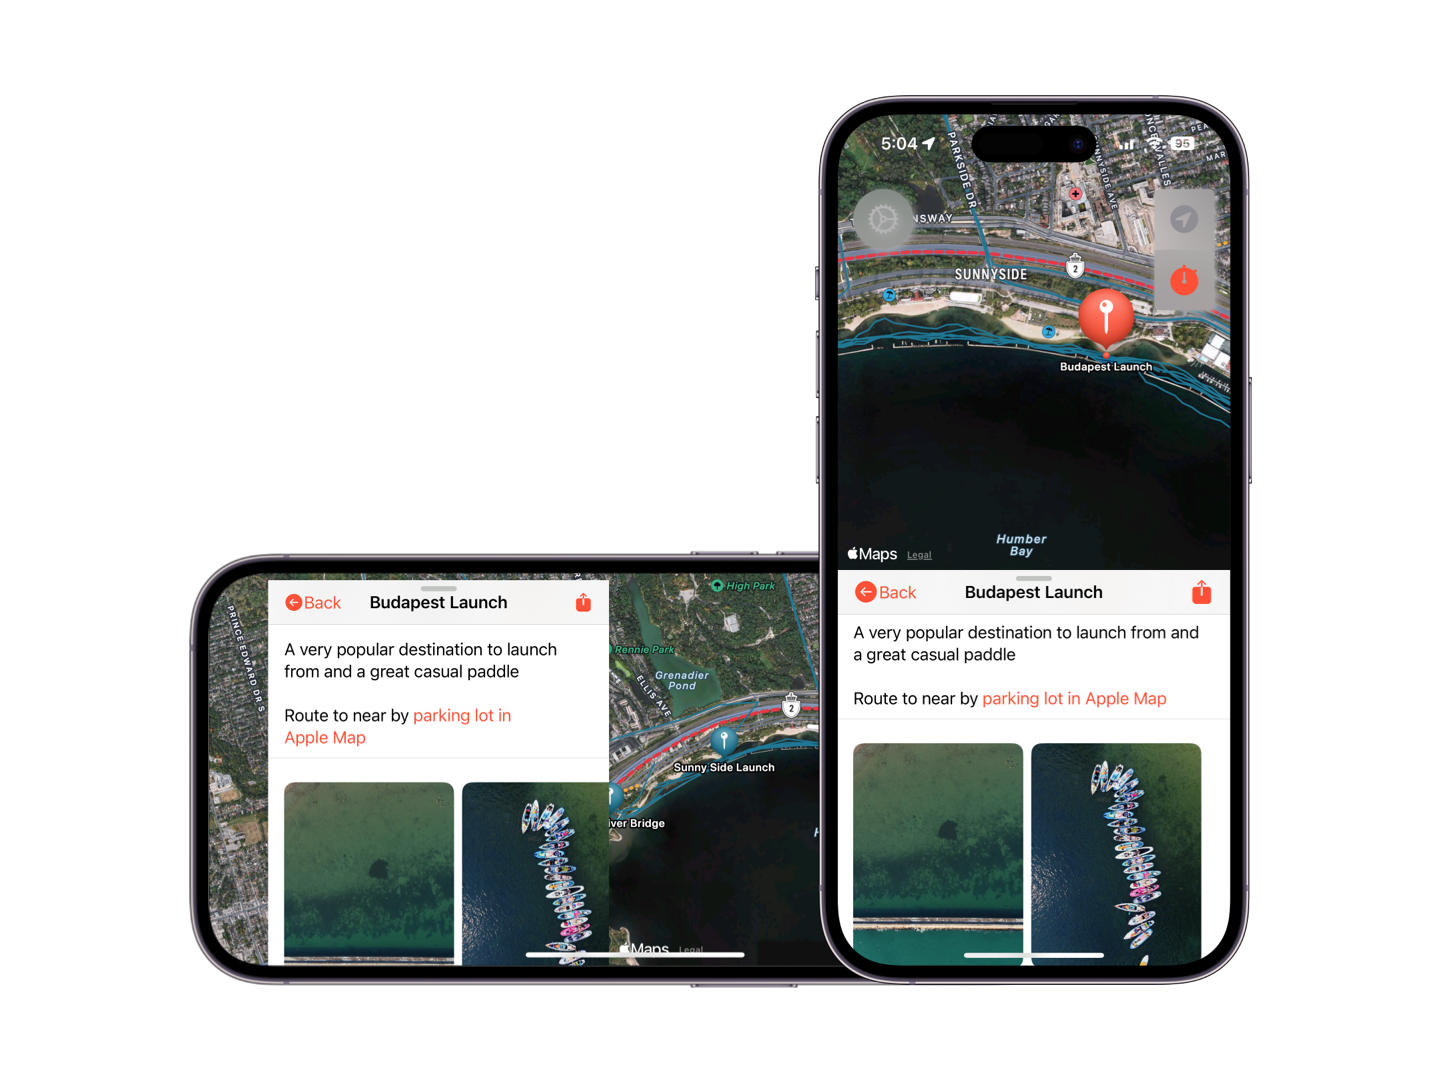
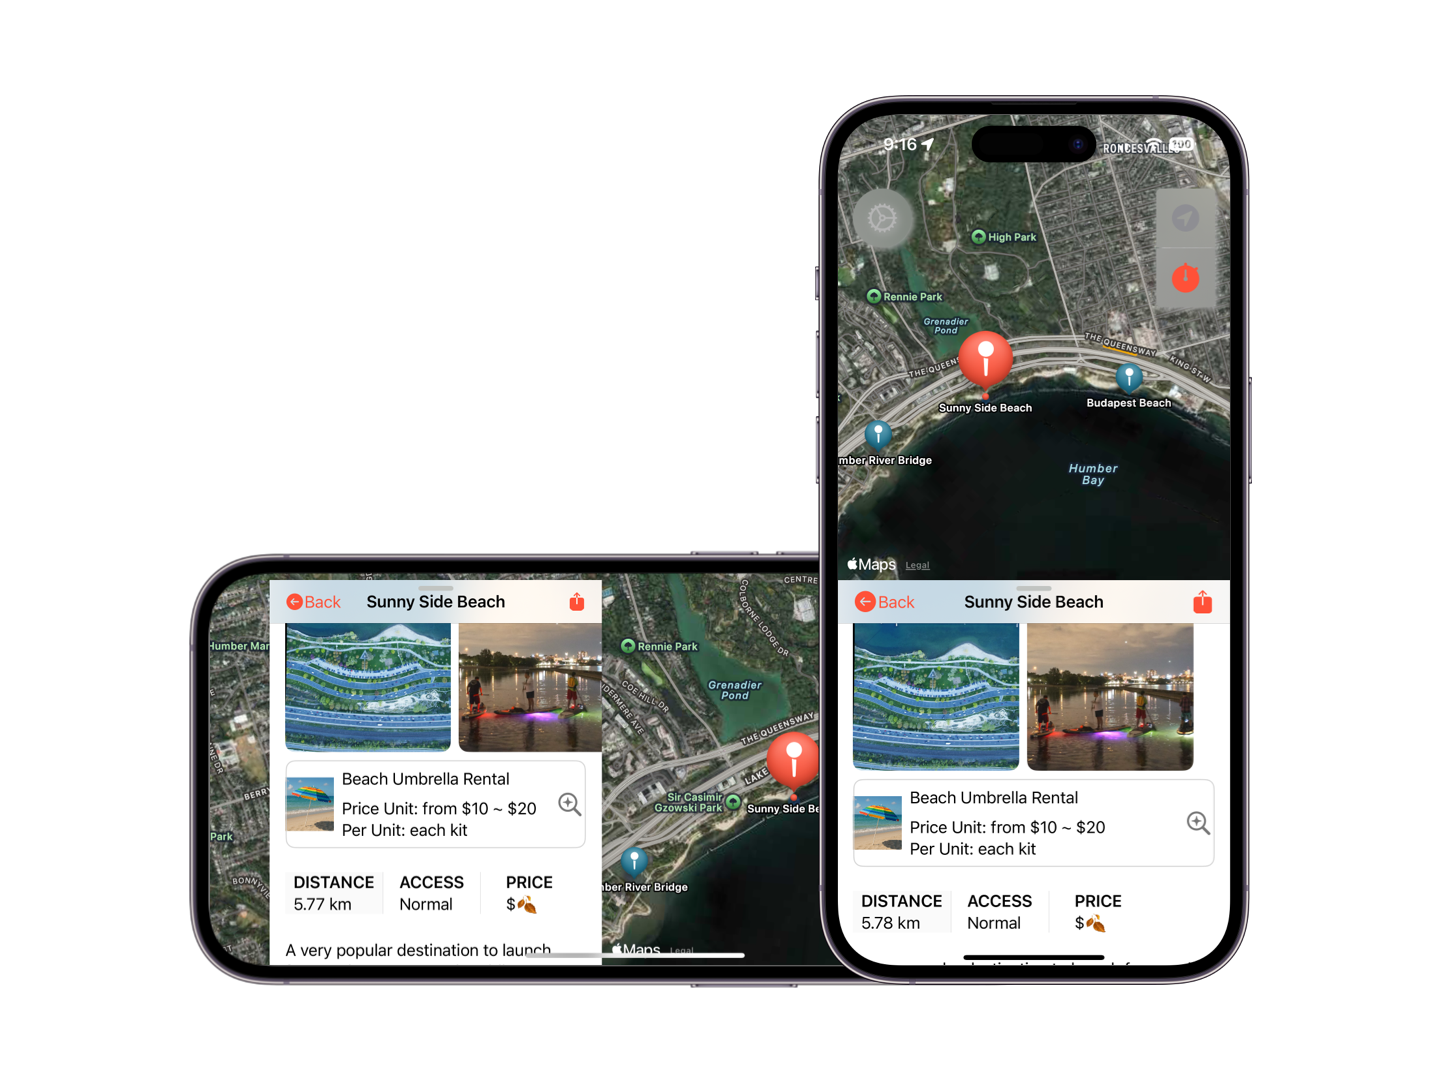
Updated for better description

Changed region(s): [[0.125, 0.0917, 0.875, 0.9167], [0.75, 0.4278, 0.7812, 0.4583]]

diff --git a/index.html b/index.html
@@ -34,6 +34,19 @@ downloadLnk: https://apps.apple.com/ca/app/vatten/id6478919573
 	<section>
 		<div class="container flex">
 			<div class="text editable">
+				<h2>Explore Nature's Stunning Beauty</h2>
+				<p>Embark on effortless outdoor adventures with the Vatten app, your all-in-one companion for paddling and relaxing by the water. More than just a tracking tool, Vatten lets you discover and rent kayaks or beach umbrellas right from your phone—no lines, no hassle. Whether you're setting out to explore a serene lake or simply soaking up the sun on the shoreline, Vatten helps you find the gear you need, when and where you need it. With a tap, browse nearby rental options, check availability, and start your day on the water or under a shady umbrella. Adventure or leisure, Vatten brings it all together—making your time outdoors seamless, spontaneous, and unforgettable.
+        </p>
+			</div>
+			<div class="image">
+				<img src="{{ site.baseurl }}/images/buoyView.png" alt="Screenshot" class="screenshot editable" />
+			</div>
+		</div>
+	</section>
+
+	<section>
+		<div class="container flex">
+			<div class="text editable">
 				<h2>Capture Fitness Data Efficiently</h2>
 				<p>Embark on epic journeys with the Vatten app, designed to capture all-day data effortlessly—even on routes exceeding 300km. Optimized for the iPhone 12 Pro, Vatten leverages the stunning Apple OLED display with dynamic refresh rates, ensuring a smooth, clear viewing experience. Our user interface is streamlined and efficient, making it easy to monitor your progress without draining your battery. With Vatten, long-distance tracking is not only possible; it's a pleasure. Dive into your adventure with confidence, knowing every kilometer is captured beautifully.</p>
 			</div>
@@ -52,18 +65,6 @@ downloadLnk: https://apps.apple.com/ca/app/vatten/id6478919573
 			</div>
 			<div class="image">
 				<img src="{{ site.baseurl }}/images/uiAny.png" alt="Screenshot" class="screenshot editable" />
-			</div>
-		</div>
-	</section>
-
-	<section>
-		<div class="container flex">
-			<div class="text editable">
-				<h2>Explore Nature's Stunning Beauty</h2>
-				<p>Embark on breathtaking water adventures with the Vatten app, your ultimate companion for exploring nature’s stunning beauty. Tailored specifically for paddling sports, Vatten captures the essence of every ripple and wave, ensuring no detail of your journey is missed. Whether you're navigating tranquil lakes, vibrant coastal waters, or challenging rivers, our app enhances your experience by tracking your route with precision and displaying rich, detailed maps. Dive into the natural world with confidence and curiosity—Vatten is here to guide and inspire every paddle stroke. Explore, enjoy, and embrace the wild beauty of water with Vatten.</p>
-			</div>
-			<div class="image">
-				<img src="{{ site.baseurl }}/images/buoyView.png" alt="Screenshot" class="screenshot editable" />
 			</div>
 		</div>
 	</section>

diff --git a/_posts/2025-03-28-leverage-the-vatten-app-platform.md b/_posts/2025-03-28-leverage-the-vatten-app-platform.md
@@ -4,59 +4,35 @@ title: Leverage The Vatten App Platform
 date: 2025-03-28 19:08 +0000
 ---
 
-You receive 100% of your money for your service!
+Merchants receive 100% of your money for your service! And flexible hours!
 ==
 
-![Overview]({{ site.baseurl }}/images/vPlatform/04-08-2025_08-48-17_canoe.jpg)
+![Overview]({{ site.baseurl }}/images/vPlatform/WebExplainsVattenFulfillment.png)
 
-### Enjoy hassle-free outdoor fun with our convenient watercraft delivery and pickup service.
-
-[Become a Merchant]( {% post_url 2025-04-08-merchant-signup %})
-
-Kayak, Canoe & Paddle Board Rentals
-
-- Delivered to your chosen location.
-- Easy pickup after your adventure.
-
-Airbnb Rental Extension
-
-- Enhance your Airbnb stay by adding kayak, canoe, or paddle board rentals at no extra cost.
-
-On demand dog sitting service
-
-- Need a break? Let us take care of your pup! Our trusted sitter will come right to you to pick up your dog—no hassle, no stress. Book now and enjoy your outdoor adventure, worry-free!
-
-
-![Overview]({{ site.baseurl }}/images/vPlatform/04-08-2025_09-03-07_firewood.jpg)
-
-### Convenient Delivery Services – Simplify Your Needs
-[Become a Merchant]( {% post_url 2025-04-08-merchant-signup %})
-
-Fast, reliable, and convenient deliveries tailored for your lifestyle.
-
-Medical Delivery
-* Timely medical supplies directly to your door.
-
-Firewood Delivery
-* Keep warm easily with prompt firewood delivery.
-
-In-Person Service Sectors
-* Professional, personalized delivery services to enhance your business.
-
-Simplify your life—book our reliable delivery services today!
-
-
-![Overview]({{ site.baseurl }}/images/vPlatform/04-08-2025_09-10-16_boat.jpg)
-
-### Convenient Pickup – Simplify Your Life
-Fast, reliable services tailored for your needs.
+### Enjoy hassle-free outdoor fun with our convenient services.
 
 [Become a Merchant]( {% post_url 2025-04-08-merchant-signup %})
 
-Backcountry Drone Package Pickup
-* Safe and efficient package retrieval from remote locations.
+### 1 Customer requests a service on the Vatten app
 
-Tour Company Pickup Services
-* Multiple convenient pickup locations for your tours.
+The customer opens the Vatten app and selects the service they want—like kayak,
+canoe, paddleboard or umbrella rental. The customer will review the details and
+place a service request
 
+### 2 Merchant receives a service request
+
+The request is sent instantly to a nearby merchant. The merchant reviews the details
+and accepts the job if available.
+
+### 3 Vatten app facilitates merchant and customer to meet at the pre-determined location
+
+Once accepted, the app confirms the booking and provides both parties with
+real-time location and timing details for the handoff.
+
+
+# Vatten Platform is looking for merchants able to fulfill
+- Watercraft rental (canoe, kayak, paddleboard, OC, waterbike)
+- Beach umbrella rental
+
+[Become a Merchant]( {% post_url 2025-04-08-merchant-signup %})
 

diff --git a/_posts/2025-4-04-first-release.md b/_posts/2025-4-04-first-release.md
@@ -18,6 +18,12 @@ Download Vatten and make every day on the water unforgettable!
 
 ![Overview]({{ site.baseurl }}/images/overview.png)
 
+## Explore Nature's Stunning Beauty
+
+Embark on effortless outdoor adventures with the Vatten app, your all-in-one companion for paddling and relaxing by the water. More than just a tracking tool, Vatten lets you discover and rent kayaks or beach umbrellas right from your phone—no lines, no hassle. Whether you're setting out to explore a serene lake or simply soaking up the sun on the shoreline, Vatten helps you find the gear you need, when and where you need it. With a tap, browse nearby rental options, check availability, and start your day on the water or under a shady umbrella. Adventure or leisure, Vatten brings it all together—making your time outdoors seamless, spontaneous, and unforgettable.
+
+
+![Overview]({{ site.baseurl }}/images/buoyView.png)
 
 ## Privacy, Pure and Simple
 
